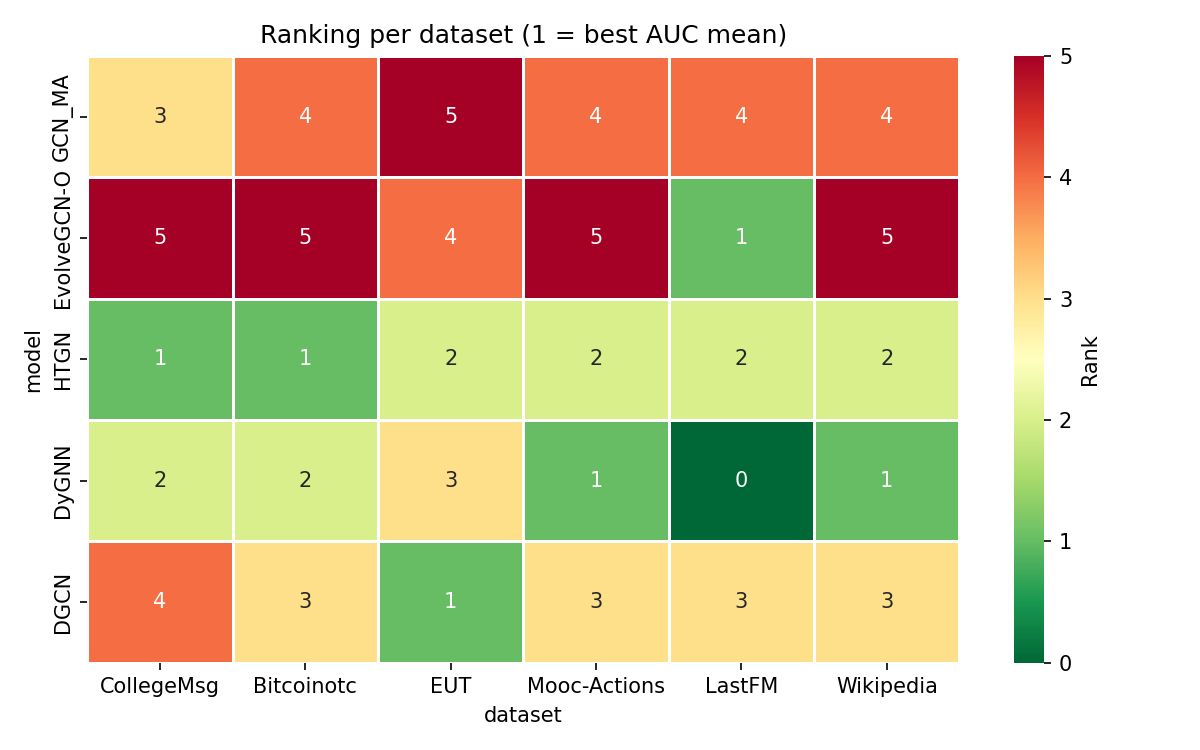
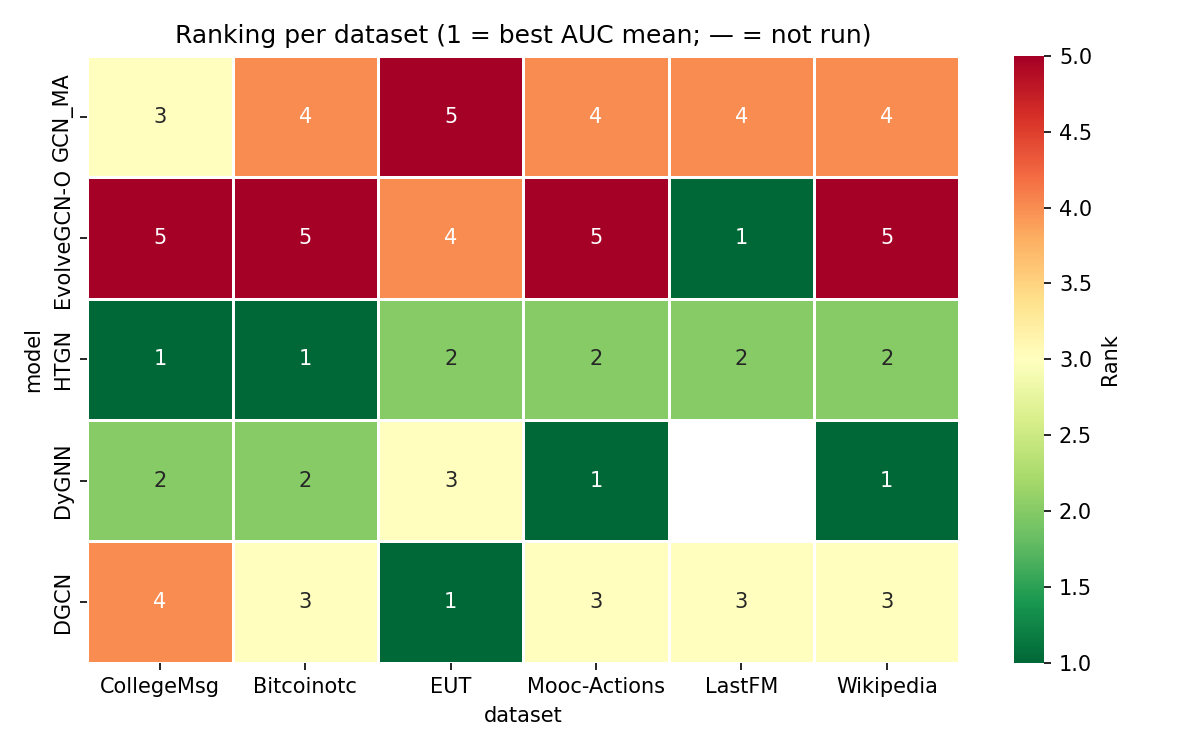
[plots] ranking_heatmap: render N/A cells (DyGNN×LastFM) as masked grey with em-dash
Previously DyGNN×LastFM showed as rank 0 due to fillna(0) before astype(int).
Fixed: keep NaN, use seaborn mask=ranks.isna() so cell renders grey,
annotate with "—" instead of "0".

diff --git a/scripts/make_plots.py b/scripts/make_plots.py
@@ -174,22 +174,31 @@ def plot_ranking_heatmap(df: pd.DataFrame, out_path: Path) -> None:
     canonical_cols = [d for d in DATASETS_ORDER if d in ranks.columns]
     rows = canonical_rows if canonical_rows else list(ranks.index)
     cols = canonical_cols if canonical_cols else list(ranks.columns)
-    ranks = ranks.loc[rows, cols].fillna(0).astype(int)
+    ranks = ranks.loc[rows, cols]
+    # Build annotation grid: integer rank, "—" for NaN (missing model×dataset)
+    annot = ranks.copy().astype(object)
+    for r in rows:
+        for c in cols:
+            v = ranks.loc[r, c]
+            annot.loc[r, c] = "—" if pd.isna(v) else f"{int(v)}"
+    # Mask NaN cells so they render grey (no fill color)
+    mask = ranks.isna()
     labels_x = [DATASET_LABELS.get(c, c) for c in cols]
     labels_y = [MODEL_LABELS.get(r, r) for r in rows]
     fig, ax = plt.subplots(figsize=(8, 5))
     sns.heatmap(
         ranks,
-        annot=True,
-        fmt="d",
+        annot=annot.values,
+        fmt="",
         cmap="RdYlGn_r",
         cbar_kws={"label": "Rank"},
         xticklabels=labels_x,
         yticklabels=labels_y,
         ax=ax,
         linewidths=0.5,
+        mask=mask,
     )
-    ax.set_title("Ranking per dataset (1 = best AUC mean)")
+    ax.set_title("Ranking per dataset (1 = best AUC mean; — = not run)")
     fig.tight_layout()
     out_path.parent.mkdir(parents=True, exist_ok=True)
     fig.savefig(out_path, dpi=150)